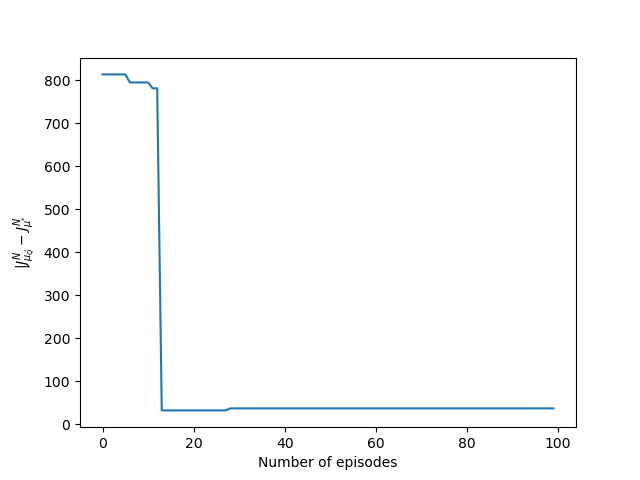
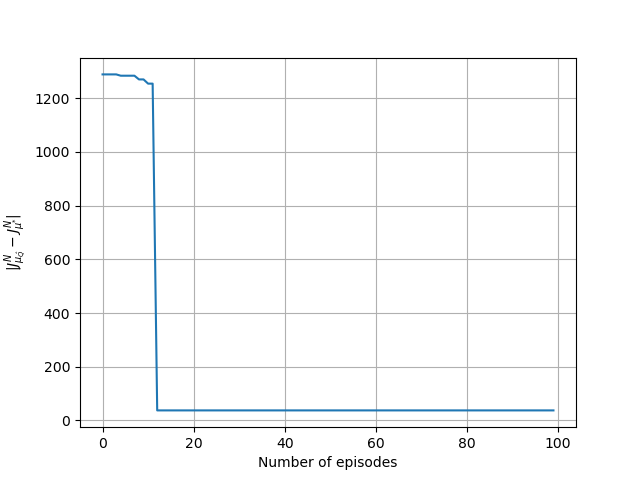
Corrected plot + std for stocha

diff --git a/project 1/section5.py b/project 1/section5.py
@@ -257,24 +257,28 @@ class Q_learning:
                                   + 0.5 * (self.domain.rewards[0, 0] + self.gamma * J_prev[0, 0])
         return J
 
-    def plt_online(self, online):
-        plt.figure()
+    def plt_online(self, online, num):
+        plt.figure(num)
         if self.domain.type == "stocha":
             normInf = []
             for i in range(10):
                 normInf.append(online())
 
-            plt.plot(range(100), np.percentile(normInf, 50, axis=0))
+            plt.plot(range(100), np.percentile(normInf, 50, axis=0), label="Infinite norm")
+            plt.plot(range(100), np.std(normInf, axis=0), label="Standard deviation")
             plt.fill_between(range(100),
                              np.percentile(normInf, 0, axis=0),
                              np.percentile(normInf, 100, axis=0), alpha=0.3)
             plt.ylabel(r'$|J_{µ_{\hat{Q}}}^{N} - J_{µ^{*}}^{N}|$')
             plt.xlabel("Number of episodes")
+            plt.legend()
+            plt.grid()
             plt.show()
         else:
             plt.plot(online())
             plt.ylabel(r'$|J_{µ_{\hat{Q}}}^{N} - J_{µ^{*}}^{N}|$')
             plt.xlabel("Number of episodes")
+            plt.grid()
             plt.show()
 
     def online_first(self, T=1000):
@@ -450,13 +454,14 @@ def heatmap_visit(mdp):
 
 
 if __name__ == "__main__":
-    d = domain('det')
-    a = agent_rand()
+    # d = domain('det')
+    # q_model = Q_learning(d)
+    # q_model.plt_online(q_model.online_first, 1)
+    # q_model.plt_online(q_model.online_second, 2)
+    # q_model.plt_online(q_model.online_third, 3)
+    d = domain('stocha')
     q_model = Q_learning(d)
-    # q_model.generate_traj(a, 10 ** 7)
-    # Q = q_model.compute_Q()
-    # q_model.compute_policy(Q)
-    # q_model.online_first()
-    q_model.plt_online(q_model.online_third)
-#  q_model.online_third()
-# q_model.j_opti_grid(100)
+    q_model.plt_online(q_model.online_first, 4)
+    q_model.plt_online(q_model.online_second, 5)
+    q_model.plt_online(q_model.online_third, 6)
+
